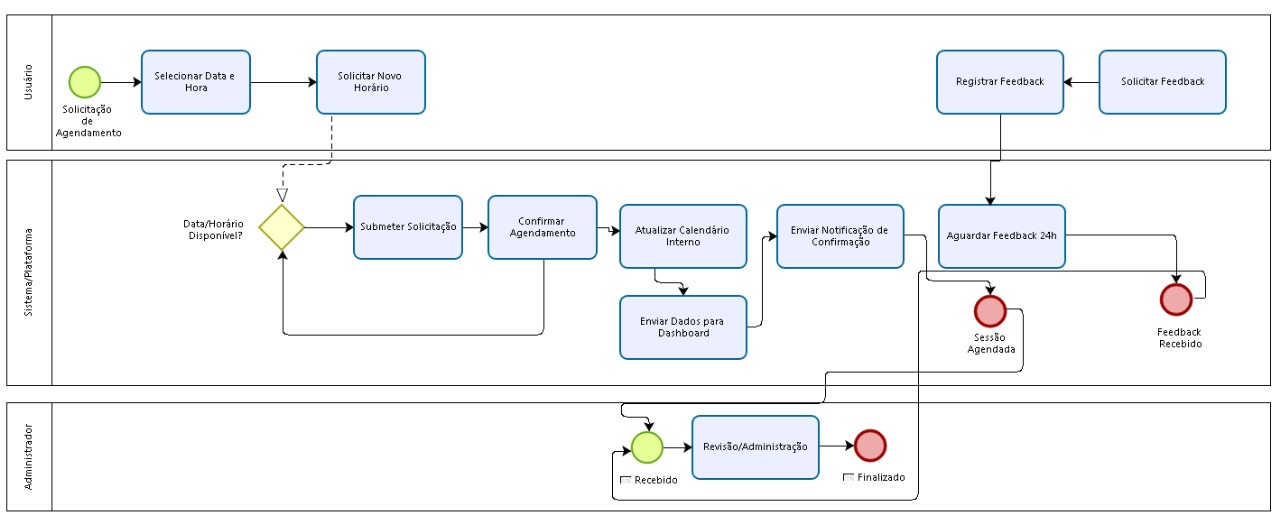
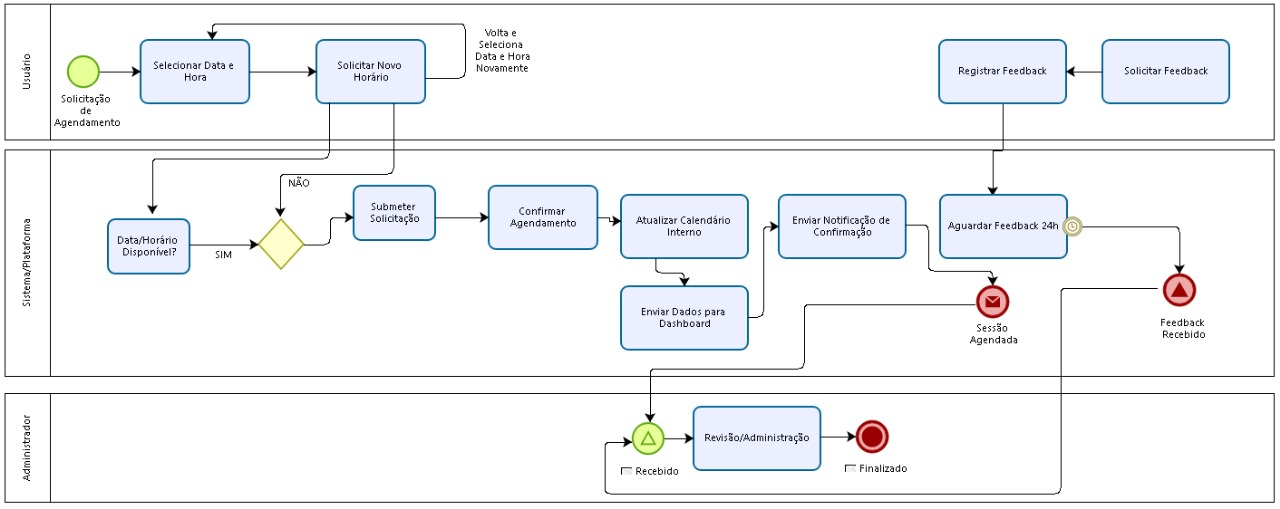
atualizando diagrama uso do sistema

diff --git a/docs/Base/1.3.ModelagemBPMN.md b/docs/Base/1.3.ModelagemBPMN.md
@@ -45,10 +45,25 @@ Este projeto de desenho de software adotará metodologias ágeis, com foco em Sc
 <div  style="text-align: center">
 
 
- <font size="3">Fonte: [Filipe](https://github.com/fillipeb50), [Luiza](https://github.com/LuizaMaluf), [Rodrigo](https://github.com/rodfon3301) 2024.</font>
+ <font size="3">Fonte: [Fillipe](https://github.com/fillipeb50), [Luiza](https://github.com/LuizaMaluf), [Rodrigo](https://github.com/rodfon3301), [Leticia](https://github.com/HladczukLe), 2024.</font>
 
 </div>
 
+## Uso do Sistema
+
+![Artefato usodoSistema](../assets/bpmn_uso_do_sistema/bpmn_uso_do_sistema.jpeg)
+
+<figcaption align='center'>
+    <b>Figura 3: Uso do Sistema </b>
+</figcaption>
+<br>
+
+<div  style="text-align: center">
+
+
+ <font size="3">Fonte: [Carlos](https://github.com/carlinn1), [Gabriel](https://github.com/gabrielsarcan), [Mateus](https://github.com/mateus9levy) 2024.</font>
+
+</div>
 
 
 ## Metodologia
@@ -56,7 +71,7 @@ Este projeto de desenho de software adotará metodologias ágeis, com foco em Sc
 ![Artefato Metodologia](../assets/bpmn_metodologia/bpmn_metodologia.jpeg)
 
 <figcaption align='center'>
-    <b>Figura 3: Metodologia </b>
+    <b>Figura 4: Metodologia </b>
 </figcaption>
 <br>
 
@@ -82,6 +97,11 @@ Este projeto de desenho de software adotará metodologias ágeis, com foco em Sc
 | Versão | Data | Descrição | Autor | Revisor
 |:-:|:-:|:-:|:-:|:-:|
 |`1.0`| 09/04/2025 | Criação ModelagemBPMN | [Mateus Levy](https://github.com/mateus9levy) | [Lucas Botinno](https://github.com/bottinolucas) |
-|`1.1`| 10/04/2025 | adiciona diagrama metodologia| [Mateus Levy](https://github.com/mateus9levy) | [Lucas Botinno](https://github.com/bottinolucas) |
+|`1.1`| 09/04/2025 | adiciona diagrama metodologia| [Mateus Levy](https://github.com/mateus9levy) | [Lucas Botinno](https://github.com/bottinolucas) |
+|`1.2`| 09/04/2025 | atualiza diagrama uso do sistema| [Mateus Levy](https://github.com/mateus9levy) | [Lucas Botinno](https://github.com/bottinolucas) |
+
+
+
+
 
 
